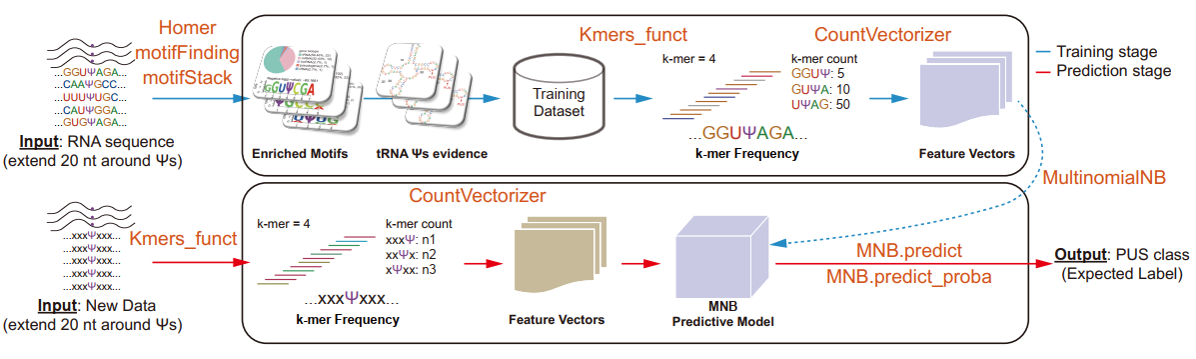
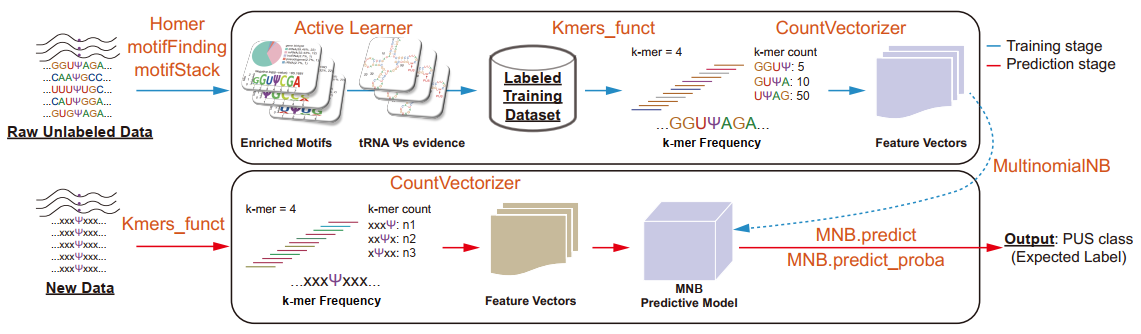
active learning

diff --git a/README.md b/README.md
@@ -1,6 +1,6 @@
 # psiMNB
 
-## Multinomial Naive Bayes for finding PUS-dependent pseudouridylation
+## Active learning approach of Multinomial Naive Bayes for finding PUS-dependent pseudouridylation
 
 ![psiMNB](psiMNB.png)
 
@@ -13,7 +13,7 @@
   - [build MNB model](#build-MNB-model)
 
 ### pre-installation
-**psiMNB** is a training workflow for building Multinomial Naive Bayes (MNB) models of PUS label/probability prediction. psiMNB requires **homer/motifFinding/motifStack** pre-installation and predominantly used in unix-based operating systems. Therefore, for the usability of **psiMNB**, we recommend running **homer/motifFinding/motifStack** and all the scripts in WSL2 (WSL2 installation guide: https://pureinfotech.com/install-windows-subsystem-linux-2-windows-10/) or unix-based system with R and python.
+**psiMNB** is a training workflow for building Multinomial Naive Bayes (MNB) models of PUS label/probability prediction using active learning approach. psiMNB requires **homer/motifFinding/motifStack** pre-installation and predominantly used in unix-based operating systems. Therefore, for the usability of **psiMNB**, we recommend running **homer/motifFinding/motifStack** and all the scripts in WSL2 (WSL2 installation guide: https://pureinfotech.com/install-windows-subsystem-linux-2-windows-10/) or unix-based system with R and python.
 
 ```R
 #use pacman to install packages in batch
